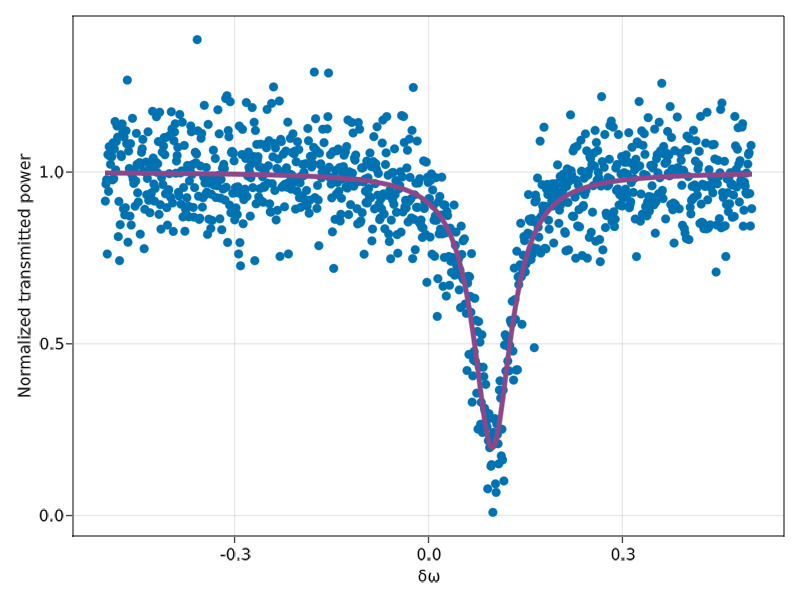
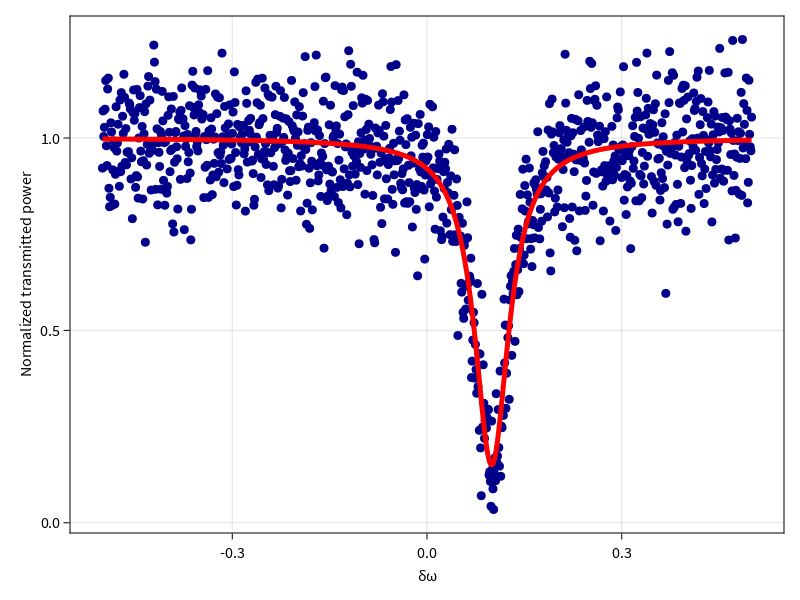
Update colors and crime plot

Changed region(s): [[0.0, 0.03, 0.9688, 0.99], [0.8125, 0.48, 0.8438, 0.51]]

diff --git a/content/crimes.md b/content/crimes.md
@@ -77,11 +77,11 @@ julia> result.minimizer
  0.10094963595329196
  0.01968074906926952
  0.051693643609924414
-julia> fig, ax = scatter(ωs, data);
+julia> fig, ax = scatter(ωs, data, color=:darkblue);
 julia> ax.xlabel = "δω";
 julia> ax.ylabel = "Normalized transmitted power";
 julia> lines!(ωs, power_transmission_spectrum.(ωs,
-    result.minimizer...), color=:orchid4, linewidth=5);
+    result.minimizer...), color=:red, linewidth=5);
 julia> current_figure()
 ```
 {{ resize_image(path="crimes/crime_fit.png", width=1000, height=45, op="fit_width") }}
